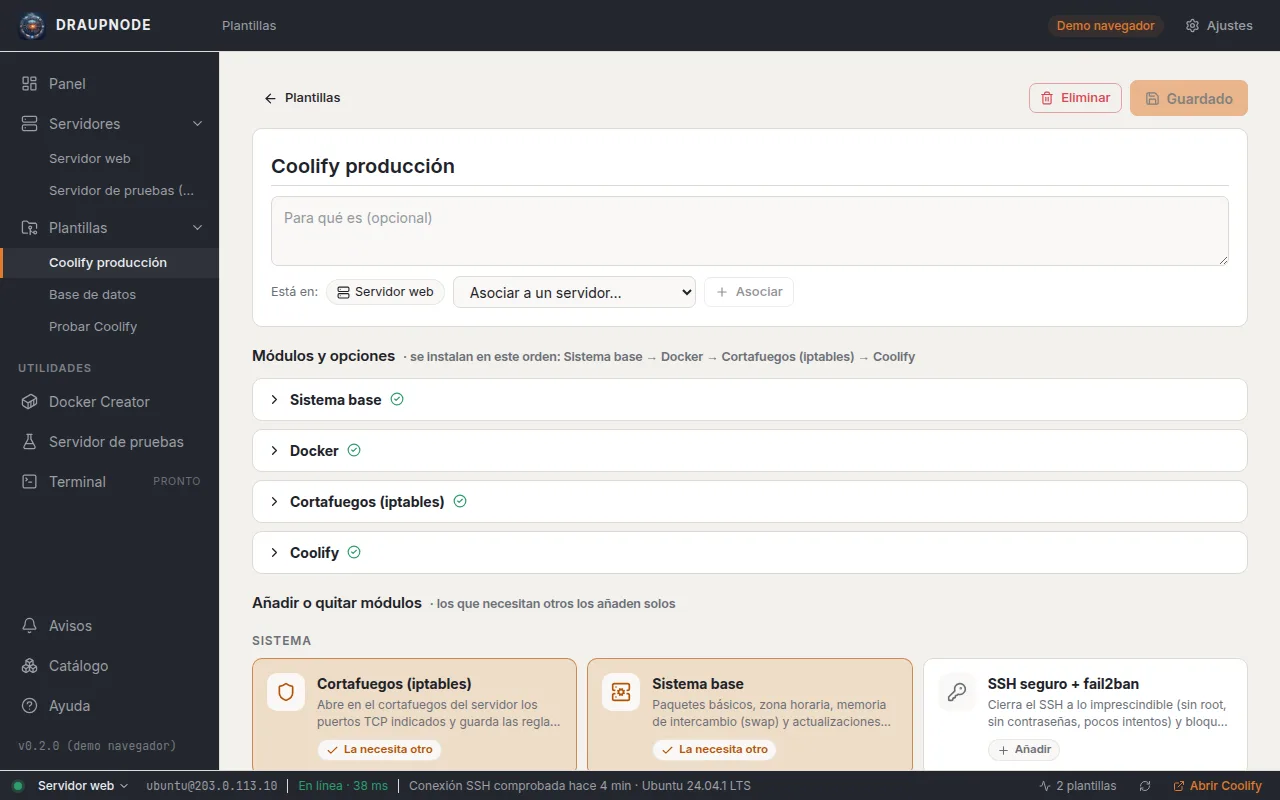
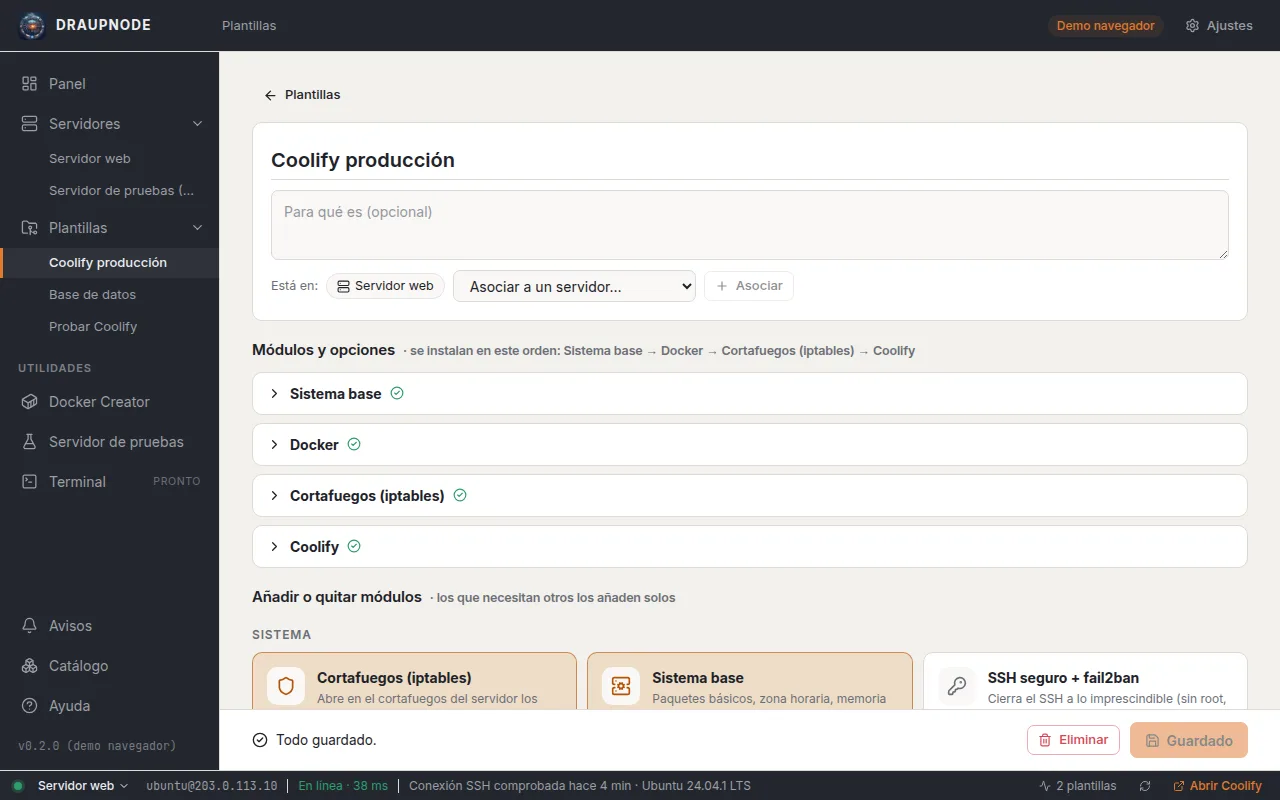
Editor de plantillas: franja fija para guardar y módulos nuevos marcados para revisar (0.38.1)

diff --git a/frontend/src/views/RecipeEditor.svelte b/frontend/src/views/RecipeEditor.svelte
@@ -4,7 +4,7 @@
   // servidor, no aquí. Al guardar, los servidores que la usan reciben los
   // cambios (sin aplicarlos) y conservan lo suyo.
   import { untrack } from 'svelte'
-  import { ArrowLeft, Save, Trash2, Server as ServerIcon, Plus, TriangleAlert, ChevronDown, ChevronRight, CircleCheck } from '@lucide/svelte'
+  import { ArrowLeft, Save, Trash2, Server as ServerIcon, Plus, TriangleAlert, ChevronDown, ChevronRight, CircleCheck, Sparkles, Check } from '@lucide/svelte'
   import ModuleCard from '../components/ModuleCard.svelte'
   import VarField from '../components/VarField.svelte'
   import { api, errorText, type Module, type ProjectCheck, type Recipe } from '../lib/api'
@@ -22,6 +22,18 @@
   let saving = $state(false)
   let open = $state<Record<string, boolean>>({})
   let deployTo = $state('')
+  // Módulos añadidos (aún sin guardar) con opciones: se marcan «por revisar»
+  // hasta que el usuario dice que los valores le valen (o guarda).
+  let toReview = $state<string[]>([])
+  const reviewable = (mid: string) => (byId(mid)?.variables ?? []).some((v) => v.type !== 'secret' && !v.managed)
+  function reviewed(mid: string) {
+    toReview = toReview.filter((x) => x !== mid)
+    open[mid] = false
+  }
+  function goTo(mid: string) {
+    open[mid] = true
+    requestAnimationFrame(() => document.getElementById('cfg-' + mid)?.scrollIntoView({ behavior: 'smooth', block: 'start' }))
+  }
 
   const mods = $derived(ui.modules?.modules ?? [])
   const byId = (mid: string) => mods.find((m) => m.id === mid)
@@ -45,6 +57,7 @@
       const needs = draft.modules.filter((x) => byId(x.id)?.depends?.includes(m.id)).map((x) => moduleName(x.id))
       if (needs.length) return toast(`Lo necesita ${needs.join(', ')}: quita antes ese`, 'error')
       draft.modules = draft.modules.filter((x) => x.id !== m.id)
+      toReview = toReview.filter((x) => x !== m.id)
       return
     }
     const clash = clashesWith(m.id, selected, byId)
@@ -54,9 +67,10 @@
       if (!mm || draft.modules.some((x) => x.id === mid)) return
       for (const d of mm.depends ?? []) add(d)
       draft.modules.push({ id: mid, values: defaults(mm) })
+      if (reviewable(mid) && !toReview.includes(mid)) toReview.push(mid)
     }
     add(m.id)
-    open[m.id] = true
+    if (reviewable(m.id)) goTo(m.id)
   }
   function cardState(m: Module): CardState {
     if (selected.has(m.id)) return draft.modules.some((x) => byId(x.id)?.depends?.includes(m.id)) ? 'required' : 'pending'
@@ -81,6 +95,7 @@
       draft.id = r.id
       draft.modules = r.modules
       savedKey = key(draft)
+      toReview = []
       await refreshProjects()
       if (!id) ui.recipeId = r.id
       toast(stored?.deployments.length ? 'Guardado. Los servidores que lo usan tienen «cambios sin aplicar».' : 'Plantilla guardada')
@@ -124,9 +139,6 @@
 
 <div class="bar">
   <button class="btn ghost sm" onclick={() => (ui.recipeId = null)}><ArrowLeft size={15} /> Plantillas</button>
-  <div class="spacer"></div>
-  {#if draft.id}<button class="btn sm danger" onclick={remove}><Trash2 size={14} /> Eliminar</button>{/if}
-  <button class="btn primary" onclick={save} disabled={saving || !dirty || !draft.name.trim()}><Save size={15} /> {saving ? 'Guardando…' : dirty || !draft.id ? 'Guardar' : 'Guardado'}</button>
 </div>
 
 <div class="top card">
@@ -163,11 +175,12 @@
     {@const pm = draft.modules.find((x) => x.id === mid)}
     {@const errs = check?.errors?.[mid] ?? {}}
     {#if m && pm}
-      <section class="card cfg" class:bad={Object.keys(errs).length}>
+      <section class="card cfg" id={'cfg-' + mid} class:bad={Object.keys(errs).length} class:new={toReview.includes(mid)}>
         <button class="cfg-h" onclick={() => (open[mid] = !open[mid])}>
           {#if open[mid]}<ChevronDown size={15} />{:else}<ChevronRight size={15} />{/if}
           <strong>{m.name}</strong>
           {#if Object.keys(errs).length}<span class="bad-t">{Object.keys(errs).length} por revisar</span>{:else}<CircleCheck size={14} class="okc" />{/if}
+          {#if toReview.includes(mid)}<span class="new-t"><Sparkles size={13} /> Nuevo: revisa sus opciones</span>{/if}
           {#if secretCount(m)}<span class="muted small">· {secretCount(m)} dato(s) secreto(s): se escriben en cada servidor</span>{/if}
         </button>
         {#if open[mid]}
@@ -178,6 +191,12 @@
                 <div class="ctl"><VarField {v} bind:value={pm.values[v.name]} error={errs[v.name]} bare /></div>
               </div>
             {:else}<p class="muted small">Sin opciones: se instala tal cual.</p>{/each}
+            {#if toReview.includes(mid)}
+              <div class="rev">
+                <span class="muted small">Son los valores predeterminados. Al aplicar la plantilla en un servidor podrás retocarlos otra vez en «Configurar y aplicar…».</span>
+                <button class="btn sm" onclick={() => reviewed(mid)}><Check size={14} /> Valores revisados</button>
+              </div>
+            {/if}
           </div>
         {/if}
       </section>
@@ -194,11 +213,39 @@
     {/each}
   </div>
 {/each}
-{#if errorCount}<p class="muted small">Hay {errorCount} opción(es) por revisar: no se puede guardar hasta corregirlas.</p>{/if}
+
+<!-- Siempre a la vista: estado y botones. Se colorea si hay algo que hacer. -->
+<div class="foot" class:dirty={dirty || !draft.id} class:bad={errorCount > 0}>
+  <div class="foot-msg">
+    {#if errorCount}
+      <TriangleAlert size={16} /> <span>Hay {errorCount} opción(es) con errores: corrígelas para poder guardar.</span>
+    {:else if toReview.length}
+      <Sparkles size={16} />
+      <span>Revisa las opciones de: {#each toReview as mid, i}{#if i}, {/if}<button class="lnk" onclick={() => goTo(mid)}>{moduleName(mid)}</button>{/each}{#if dirty}{' '}· y guarda{/if}</span>
+    {:else if dirty || !draft.id}
+      <Save size={16} /> <span>{draft.id ? 'Tienes cambios sin guardar.' : 'Plantilla nueva: ponle nombre y guárdala.'}</span>
+    {:else}
+      <CircleCheck size={16} /> <span>Todo guardado.</span>
+    {/if}
+  </div>
+  {#if draft.id}<button class="btn sm danger" onclick={remove}><Trash2 size={14} /> Eliminar</button>{/if}
+  <button class="btn primary" onclick={save} disabled={saving || !dirty || !draft.name.trim() || errorCount > 0}><Save size={15} /> {saving ? 'Guardando…' : dirty || !draft.id ? 'Guardar' : 'Guardado'}</button>
+</div>
 
 <style>
+  .foot { position: sticky; bottom: -40px; margin: 24px -32px -40px; padding: 12px 32px; display: flex; gap: 10px; align-items: center; background: var(--panel); border-top: 1px solid var(--border); z-index: 5; transition: background .15s; }
+  .foot.dirty { background: color-mix(in srgb, var(--accent) 14%, var(--panel)); border-top-color: var(--accent); }
+  .foot.bad { background: color-mix(in srgb, var(--danger) 12%, var(--panel)); border-top-color: var(--danger); }
+  .foot-msg { flex: 1; display: flex; gap: 8px; align-items: center; font-size: 13.5px; min-width: 0; }
+  .foot-msg :global(svg) { flex: none; }
+  .foot.dirty .foot-msg :global(svg) { color: var(--accent); }
+  .foot.bad .foot-msg :global(svg) { color: var(--danger); }
+  .lnk { background: none; border: 0; padding: 0; font: inherit; font-weight: 600; color: var(--accent); cursor: pointer; text-decoration: underline; }
+  .cfg.new { border-color: var(--accent); box-shadow: 0 0 0 1px color-mix(in srgb, var(--accent) 35%, transparent); }
+  .new-t { display: inline-flex; gap: 4px; align-items: center; color: var(--accent); font-size: 12.5px; font-weight: 600; }
+  .rev { display: flex; gap: 12px; align-items: center; justify-content: space-between; padding-top: 10px; border-top: 1px solid var(--border-soft); flex-wrap: wrap; }
+  @media (max-width: 900px) { .foot { margin: 24px -16px -32px; padding: 10px 16px; bottom: -32px; flex-wrap: wrap; } }
   .bar { display: flex; align-items: center; gap: 8px; margin-bottom: 12px; }
-  .spacer { flex: 1; }
   .top { display: flex; flex-direction: column; gap: 10px; margin-bottom: 14px; }
   .name { font-size: 20px; font-weight: 600; border: 0; border-bottom: 1px solid var(--border); background: none; color: var(--text); padding: 4px 0; outline: none; }
   .name:focus { border-color: var(--accent); }

diff --git a/frontend/src/lib/help.ts b/frontend/src/lib/help.ts
@@ -66,6 +66,7 @@ export const HELP: HelpSection[] = [
     steps: [
       { title: 'Lista', text: 'Cada plantilla muestra sus módulos y en qué servidores está (con su estado: sin aplicar, cambios sin aplicar, aplicada, con datos propios). Pulsa un servidor para ir a esa plantilla en él.', img: 'proyectos' },
       { title: 'Crear o editar una plantilla', text: 'Nombre, para qué es y los módulos (los que necesitan otros los añaden solos). Abre cada módulo para cambiar sus opciones y pulsa «Guardar». Los datos secretos (tokens, claves) no van aquí: se escriben en cada servidor. Si la plantilla ya está en servidores, reciben los cambios (con «cambios sin aplicar») y conservan lo suyo; no se instala nada hasta que pulses Aplicar en cada uno.', img: 'proyecto' },
+      { title: 'Guardar y revisar', text: 'Abajo hay siempre una franja con «Guardar» y «Eliminar». Se pone de color cuando hay cambios sin guardar (en rojo si hay opciones con errores). Al añadir un módulo con opciones, su sección se abre y queda marcada «Nuevo: revisa sus opciones» hasta que pulsas «Valores revisados» o guardas; la franja de abajo te dice cuáles faltan y te lleva a ellos. Son valores predeterminados: al aplicar la plantilla en un servidor, «Configurar y aplicar…» te deja retocarlos otra vez.', img: 'plantilla-cambios' },
       { title: 'Asociar a un servidor', text: 'Desde la plantilla («Asociar a un servidor…») o desde la ficha del servidor («Asociar»). No instala nada: después la revisas, previsualizas y aplicas desde la ficha del servidor.' },
       { title: 'Se guarda solo', text: 'En la plantilla de un servidor, cada cambio se guarda automáticamente («Cambios guardados», arriba a la derecha) y en el sitio de «Guardar» aparece «Eliminar». Si hay campos en rojo, no se guarda hasta corregirlos.' },
       { title: 'Configurar y aplicar', text: 'Con módulos marcados aparece «Configurar y aplicar…»: se abre una ventana por cada módulo nuevo que tenga opciones (Anterior / Siguiente) y al final un resumen con «Previsualizar» y «Finalizar y aplicar». Arriba de la ventana ves siempre el servidor y la plantilla.' },

diff --git a/app.go b/app.go
@@ -21,7 +21,7 @@ import (
 )
 
 // Version de la aplicación.
-const Version = "0.38.0"
+const Version = "0.38.1"
 
 // Prefijos que la interfaz reconoce en los errores para abrir el diálogo
 // de la bóveda (crear o desbloquear) y reintentar.

diff --git a/docs/HISTORIAL.md b/docs/HISTORIAL.md
@@ -508,3 +508,12 @@ Pasos 2, 3 y 4 del rediseño pedido (PLAN.md): «los proyectos son las recetas y
   - «Contraseñas del proyecto» → «Contraseñas»; los mensajes que hablaban de «este proyecto» hablan de «este servidor».
 - «Proyecto» se queda solo en Docker Creator, donde es la carpeta de código de tu app.
 - Por dentro (código, datos guardados) sigue llamándose Project/Recipe: no cambia nada de lo guardado.
+
+## 2026-11-21 · 0.38.1 · Editor de plantillas: franja de guardar fija y módulos nuevos por revisar
+
+- «Guardar» y «Eliminar» pasan a una franja fija abajo, siempre visible al bajar por la página. La franja se
+  colorea con el color de acento si hay cambios sin guardar (o en rojo si hay opciones con errores) y dice qué falta.
+- Al añadir un módulo con opciones, su sección se abre, se desplaza hasta ella y queda marcada «Nuevo: revisa sus
+  opciones» (borde de color) hasta pulsar «Valores revisados» o guardar. La franja de abajo lista los que faltan,
+  con enlace a cada uno. Recuerda que son valores predeterminados que se pueden retocar al aplicar en un servidor.
+- Ayuda: paso «Guardar y revisar» con captura `plantilla-cambios`.
